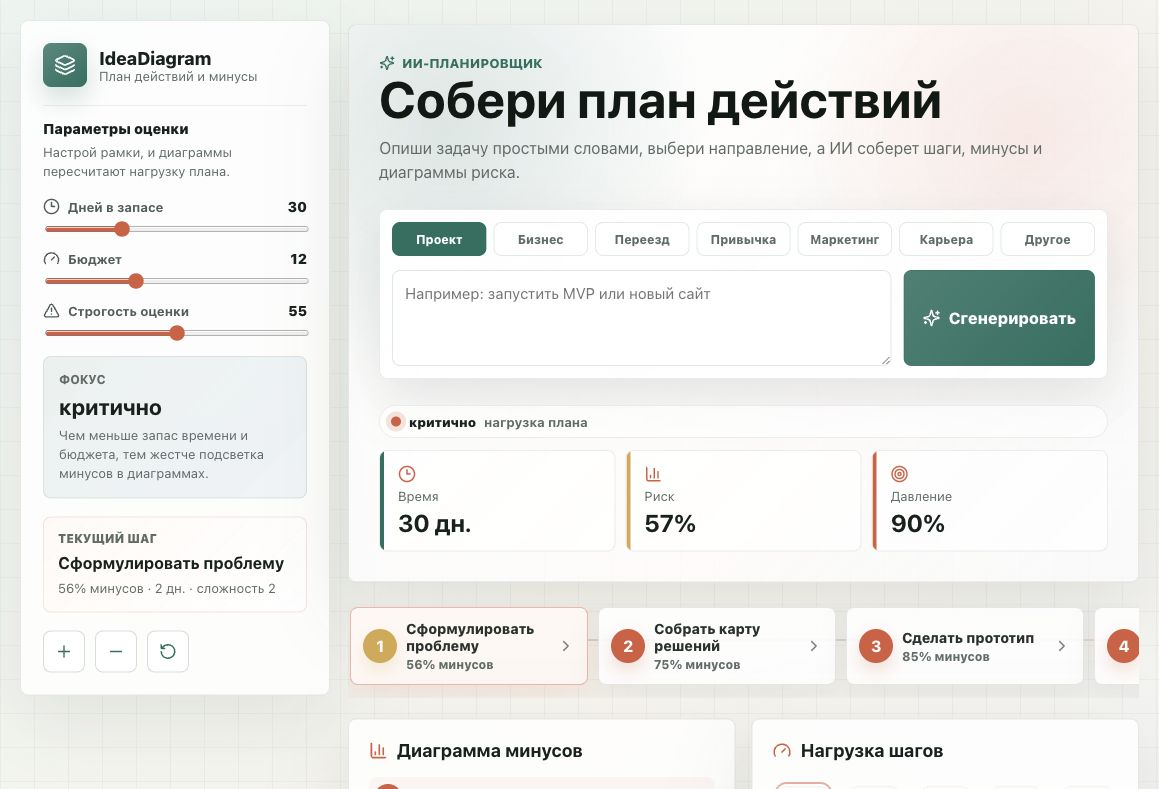
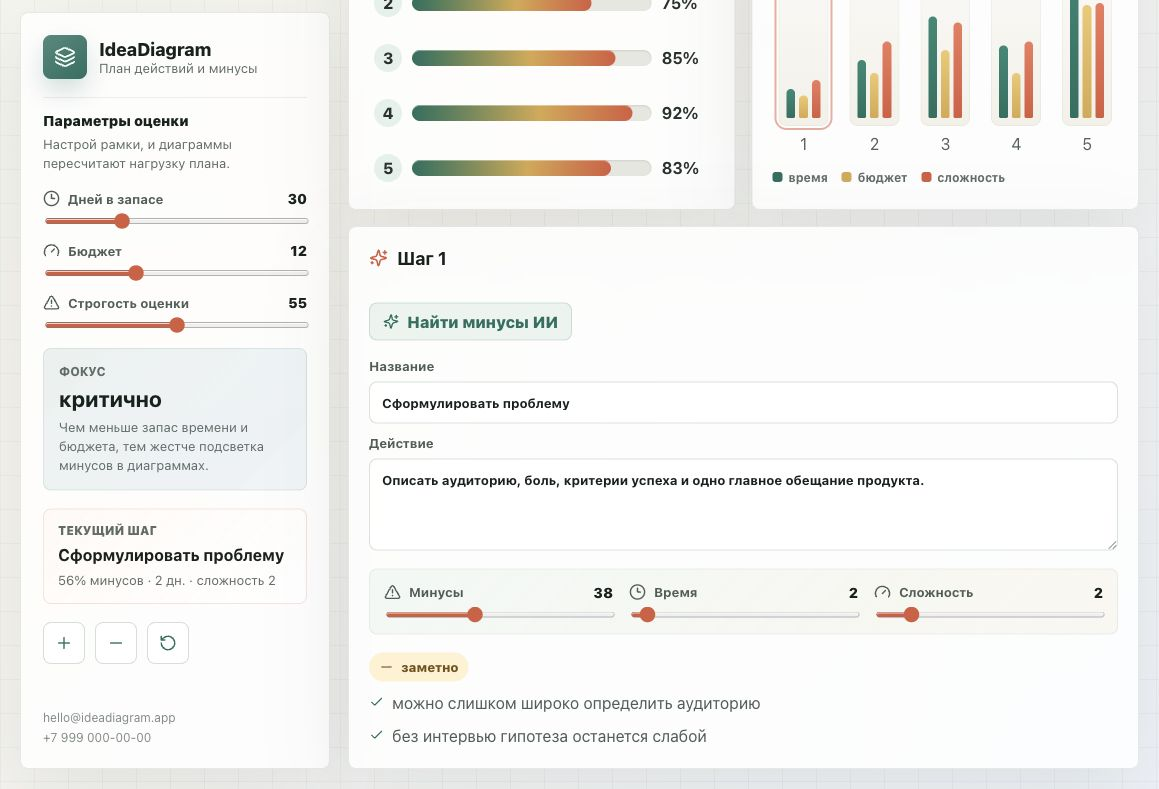
Polish sidebar layout

diff --git a/src/styles.css b/src/styles.css
@@ -74,6 +74,7 @@ button {
   display: flex;
   flex-direction: column;
   gap: 18px;
+  min-height: calc(100vh - 32px);
   padding: 22px;
   border-radius: 8px;
 }
@@ -388,6 +389,26 @@ input[type="range"] {
 .sidebar-actions {
   display: flex;
   gap: 10px;
+}
+
+.sidebar-contact {
+  display: grid;
+  gap: 4px;
+  margin-top: auto;
+  padding-top: 10px;
+  color: rgba(95, 108, 103, 0.78);
+  font-size: 12px;
+  line-height: 1.35;
+}
+
+.sidebar-contact a {
+  display: block;
+  color: inherit;
+  text-decoration: none;
+}
+
+.sidebar-contact a:hover {
+  color: var(--green);
 }
 
 .sidebar-note span {

diff --git a/src/App.jsx b/src/App.jsx
@@ -604,6 +604,11 @@ function App() {
               <RotateCcw size={18} />
             </button>
           </div>
+
+          <div className="sidebar-contact">
+            <a href="mailto:[email redacted]">[email redacted]</a>
+            <a href="tel:+79990000000">+7 999 000-00-00</a>
+          </div>
         </aside>
 
         <section className="main-panel">